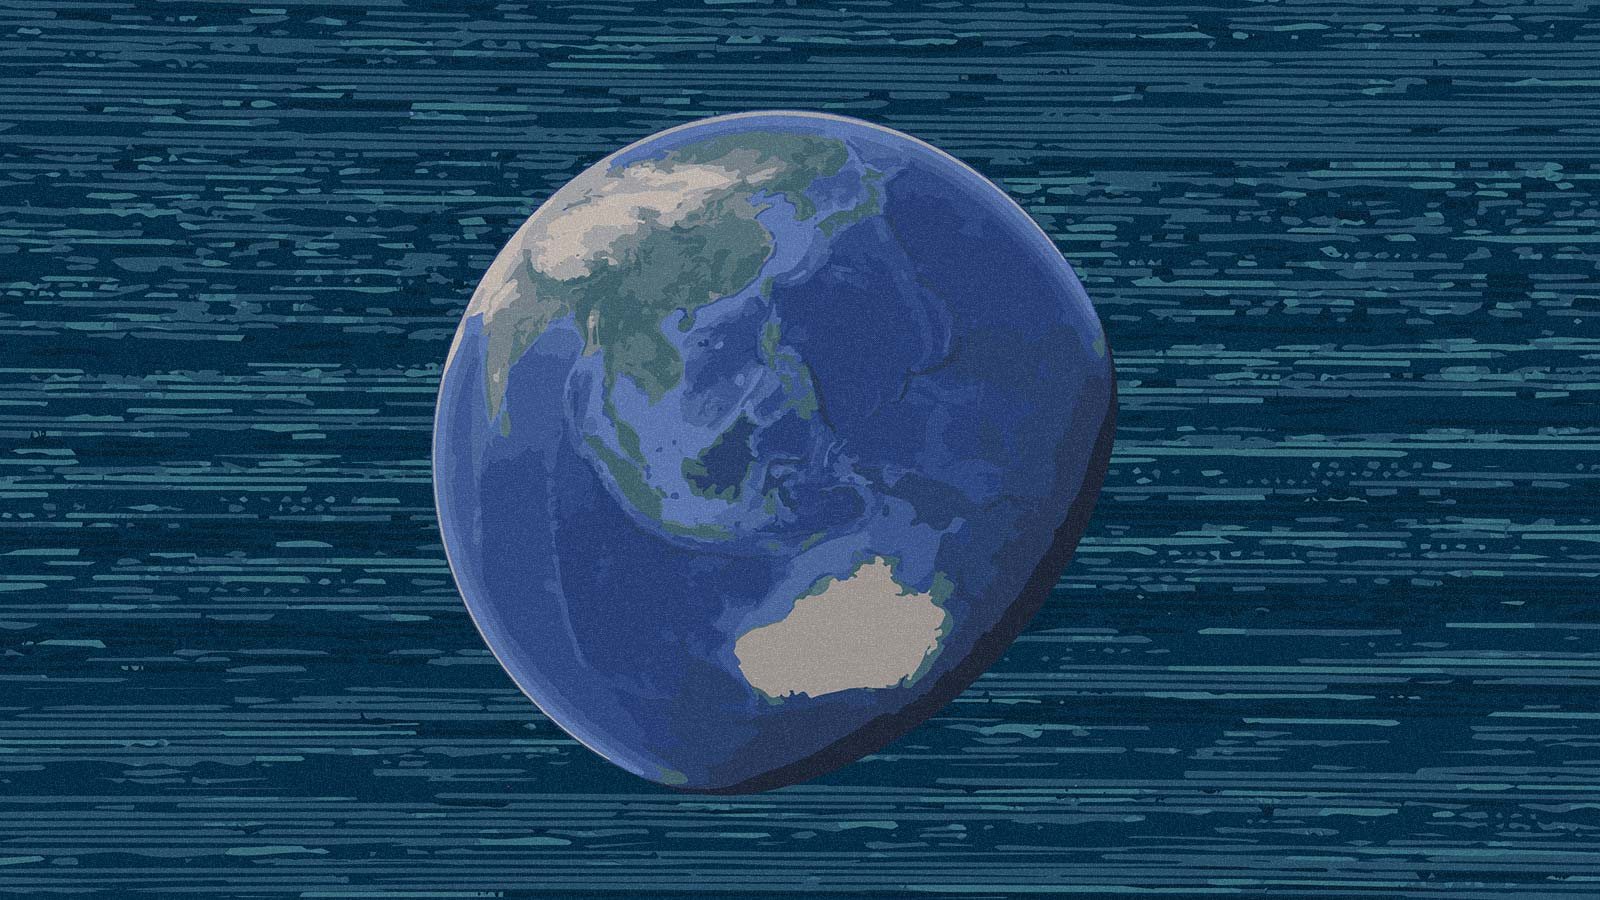
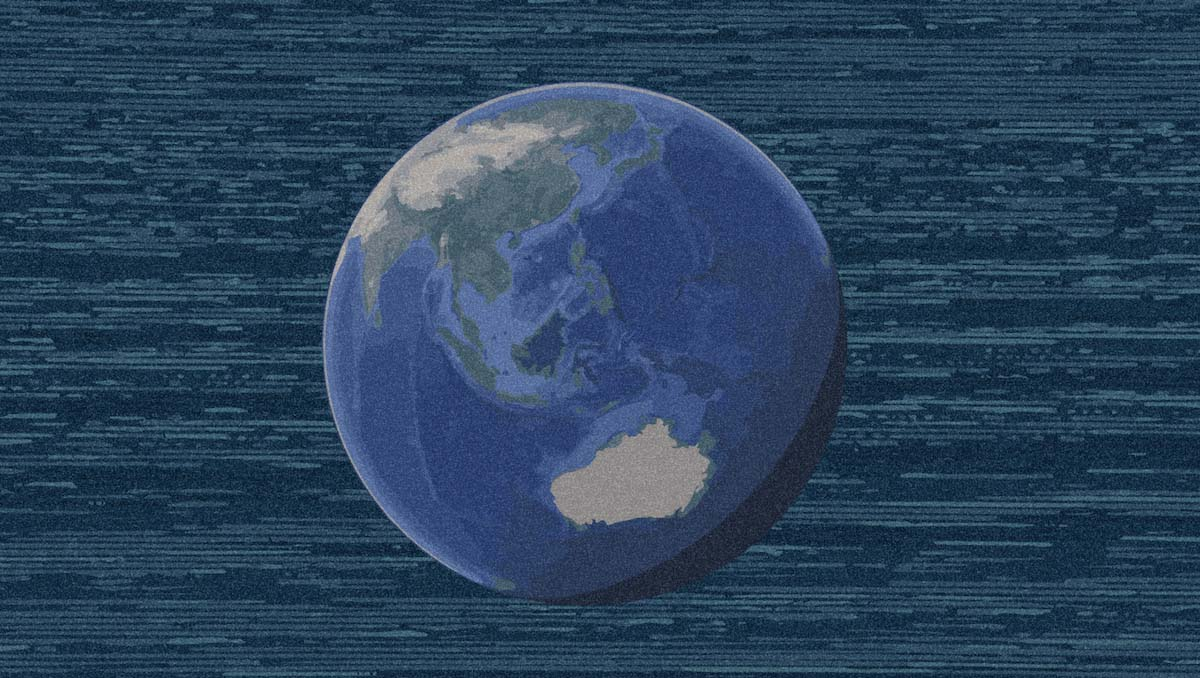
Wing Q&A and style tweaks

diff --git a/app/static/features/indo-pacific-operating-system/styles/_base.sass b/app/static/features/indo-pacific-operating-system/styles/_base.sass
@@ -89,7 +89,7 @@ header
 
 .cover-img
   background-size: cover
-  filter: brightness(0.7)
+  filter: brightness(0.8)
   background-position: center
 
 @media (max-width: $screen-tablet)

diff --git a/app/static/features/indo-pacific-operating-system/styles/_typography.sass b/app/static/features/indo-pacific-operating-system/styles/_typography.sass
@@ -18,10 +18,10 @@ h3
 
 h4
   font-family: "Sans"
+  font-size: 1.25rem
   
 h4,h5
   text-transform: none
-  font-size: 1em
   letter-spacing: 0
   font-weight: 600
 

diff --git a/app/static/features/fortress-australia/styles/_article.sass b/app/static/features/fortress-australia/styles/_article.sass
@@ -42,9 +42,6 @@ article
     .tag
       font-size: 13px
       text-shadow: none
-
-  .cover-img
-    filter: brightness(0.7)
     
   .btn-wrap
     top: unset
